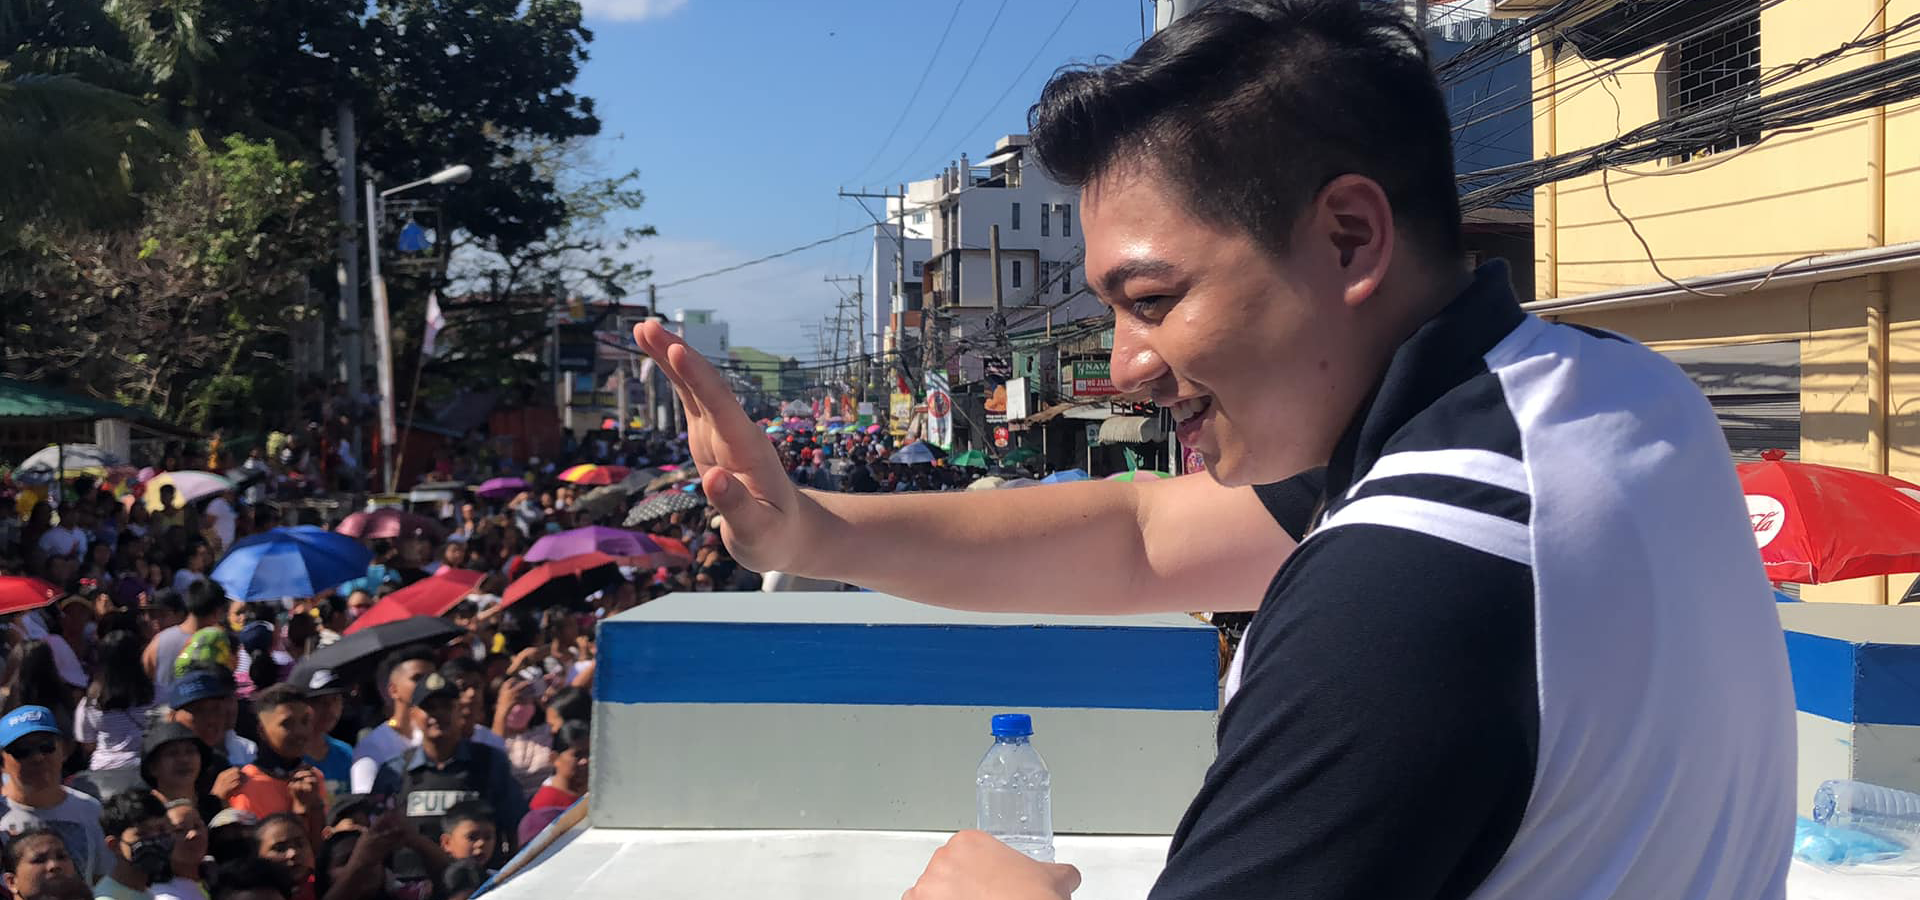
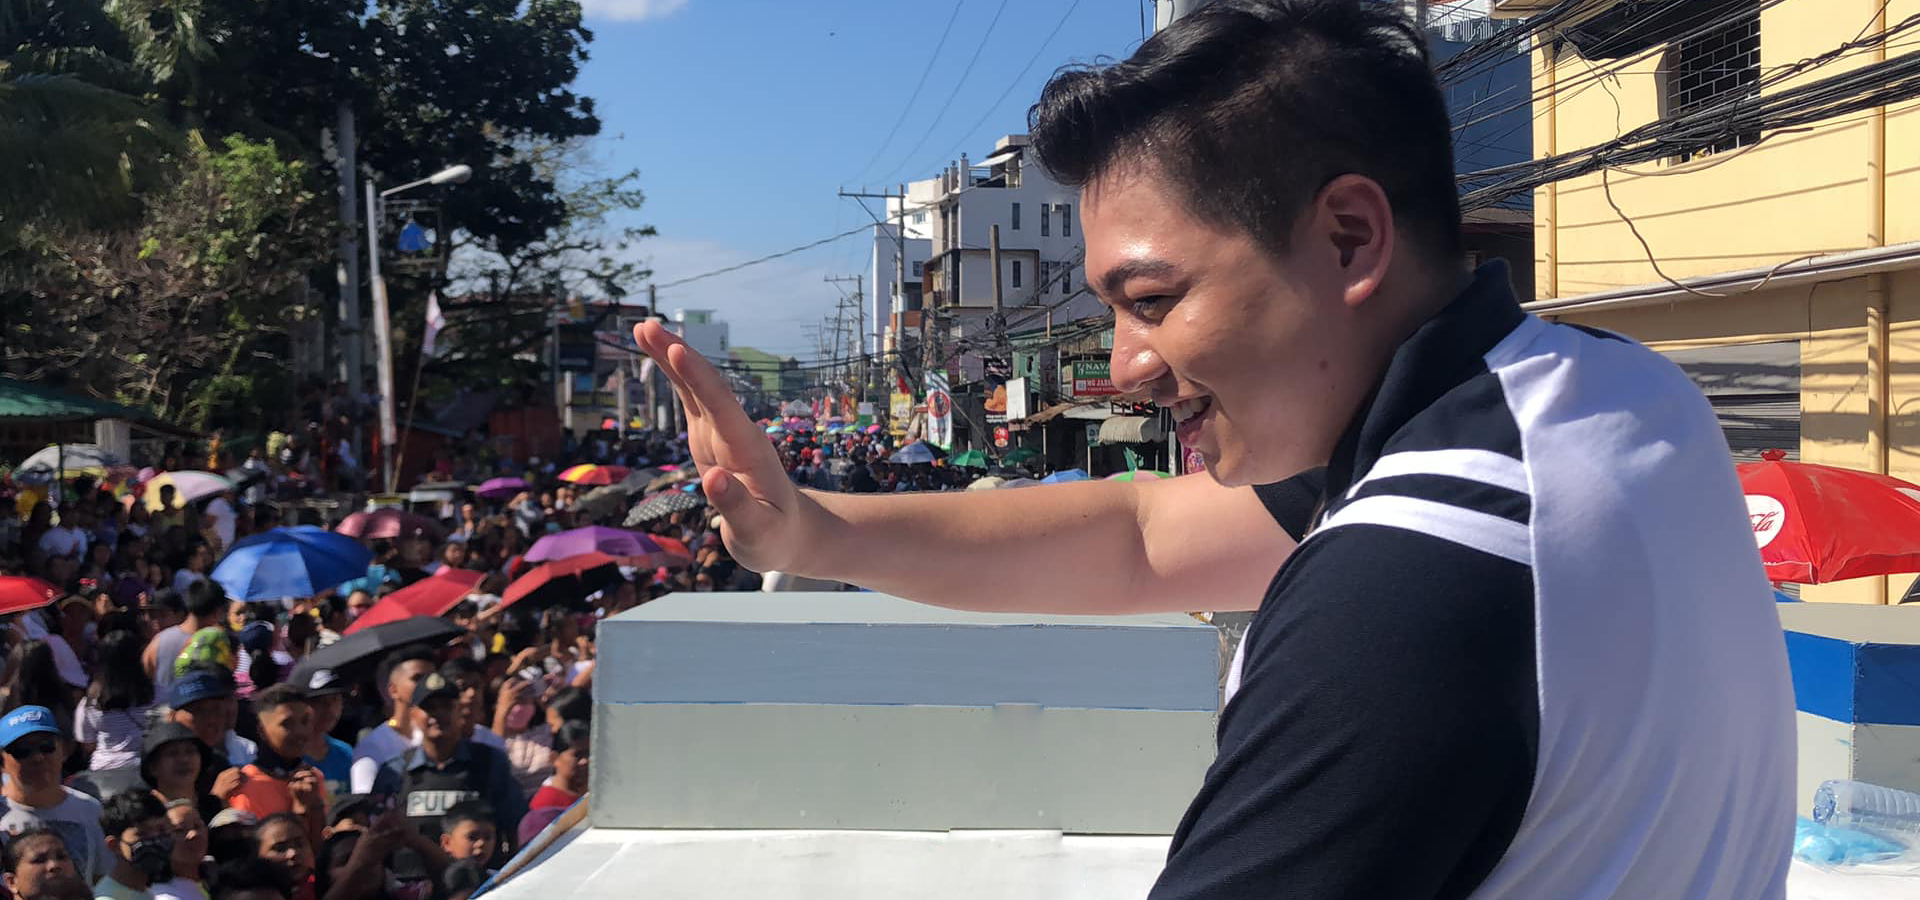
hero

Changed region(s): [[0.2812, 0.6844, 0.6562, 1.0]]

diff --git a/assets/css/style.css b/assets/css/style.css
@@ -2820,24 +2820,45 @@ hr {
 }
 
 .slider-area2 {
-    background-image: url(../img/hero/hero2.png);
+    background-image: url(../img/hero/h1_hero.png);
     max-width: 100%;
     background-position: center;
     background-repeat: no-repeat;
-    background-size: cover
+    background-size: cover;
+    height: 80vh;
 }
 
 .slider-area {
     margin-top: -1px;
-    background-image: url(../img/hero/h2_hero.png);
+    background-image:linear-gradient(180deg, rgba(0,0,0,0.17690826330532217) 0%, rgba(0,0,0,0.2189250700280112) 100%), url(../img/hero/h2_hero.png);
     background-repeat: no-repeat;
     background-position: center center;
-    background-size: cover
+    background-size: cover;
+    height: 80vh;
 }
-
+.color-blue{
+    color: #fff;
+}
+.color-orange{
+    color:#FEBD17;
+}
+.color-red{
+    color:#ff8b1e;
+}
 .slider-area .hero__caption {
     overflow: hidden
 }
+@import url('https://fonts.googleapis.com/css2?family=Poppins&display=swap');
+.hero-title{
+    font-size: 6rem;
+    font-weight: 600;
+    font-family: 'poppins';
+    color: #fff;
+    letter-spacing: 5px;
+    border: 2px solid #fff;
+    
+}
+
 
 .slider-area .hero__caption span {
     font-size: 18px;
@@ -2852,14 +2873,7 @@ hr {
     letter-spacing: 0.05em
 }
 
-@media (max-width: 375px) {
-    .slider-area2 {
-        background-size:contain;
-       
-       
-        
-    }
-}
+
 
 
 @media (max-width: 340px) {
@@ -2899,7 +2913,6 @@ hr {
     font-weight: 900;
     margin-bottom: 14px;
     color: #ffffff;
-    filter: drop-shadow(0px 0px 15px black);
     line-height: 1.2;
     margin-bottom: 30px;
     text-transform: uppercase

diff --git a/assets/css/donations.css b/assets/css/donations.css
@@ -1363,8 +1363,10 @@ display: flex;
 
 .max-wid img{
   max-width: 100%;
-  height:90vh;
+  height:80vh;
  object-fit: cover;
+ width: 100%;
+ 
  
 }
 

diff --git a/index.php b/index.php
@@ -20,24 +20,15 @@
                         <div class="col-xl-7 col-lg-9 col-md-8 col-sm-9">
                             <div class="hero__caption">
                                 <!--<span>Committed to success</span>-->
-<<<<<<< HEAD
                                 <h1 class="cd-headline letters scale " data-animation="fadeInLeft" data-delay="0.3s">Committed to Success Youth 
-=======
-                                <h1 class="cd-headline letters scale">Committed to Success Youth
->>>>>>> c7aa06f3938037b216637465bd4bf114198f8233
-                                    <strong class="cd-words-wrapper">
-                                        <b class="">Representation</b>
-                                        <b>Empowerment</b>
-                                        <b>Participation</b>
+                                    <strong class="cd-words-wrapper ">
+                                        <b class="is-visible color-blue">Representation</b>
+                                        <b  class="color-orange">Empowerment</b>
+                                        <b class="color-red">Participation</b>
                                     </strong>
                                 </h1>
                                 <!--<p data-animation="fadeInLeft" data-delay="0.1s">Paragraph.</p>-->
-<<<<<<< HEAD
                                 <a href="getappointment.php" class="btn hero-btn" data-animation="fadeInLeft" data-delay="0.3s">Get Appointment <i class="ti-arrow-right"></i></a>
-=======
-                                <a href="getappointment.php" class="btn hero-btn" data-animation="fadeInLeft"
-                                    data-delay="0.5s">Get Appointment <i class="ti-arrow-right"></i></a>
->>>>>>> c7aa06f3938037b216637465bd4bf114198f8233
                             </div>
                         </div>
                     </div>
@@ -51,16 +42,15 @@
                         <div class="col-xl-7 col-lg-9 col-md-8 col-sm-9">
                             <div class="hero__caption">
                                 <!--<span>Committed to success</span>-->
-                                <h1 class="cd-headline letters scale" data-animation="fadeInLeft" data-delay="0.3s">Committed to success Youth
+                                <h1 class="cd-headline letters scale " data-animation="fadeInLeft" data-delay="0.3s">Committed to success Youth
                                     <strong class="cd-words-wrapper">
-                                        <b class="">Representation</b>
-                                        <b>Empowerment</b>
-                                        <b>Participation</b>
+                                        <b class="is-visible color-blue">Representation</b>
+                                        <b class="color-orange">Empowerment</b> 
+                                        <b class="color-red">Participation</b>
                                     </strong>
                                 </h1>
                                 <!--<p data-animation="fadeInLeft" data-delay="0.1s">Paragraph.</p>-->
-<<<<<<< HEAD
-                                <a href="getappointment.php" class="btn hero-btn" data-animation="fadeInLeft" data-delay="0.5s">Get Appointment <i class="ti-arrow-right"></i></a>
+                                <a href="getappointment.php" class="btn hero-btn" data-animation="fadeInLeft" data-delay="0.3s">Get Appointment <i class="ti-arrow-right"></i></a>
                             </div>
                         </div>
                     </div>
@@ -70,17 +60,16 @@
     </div>
     </div>
     <div class="carousel-item max-wid">
-      <img src="assets/img/COVER/bulacan.jpg" class="w-100 max-wid img-fluid" alt="...">
-      <div class="carousel-caption d-none d-md-block text-left font-weight-bold">
-        <h5>Second slide label</h5>
-        <p>Lorem ipsum dolor sit amet, consectetur adipiscing elit.</p>
+      <img src="assets/img/gallery/gallery4.png" class="w-100 max-wid img-fluid max-wid" alt="...">
+      <div class="carousel-caption d-none d-md-block text-left font-weight-bold mb-50 ">
+      <div class="drk"></div>
+          <h1 class="hero-title"></h1>
       </div>
     </div>
     <div class="carousel-item max-wid" >
-      <img src="assets/img/COVER/ridgemont.jpg" class=" w-100 max-wid img-fluid" alt="...">
+      <img src="assets/img/COVER/sunrise.jpg" class=" w-100 max-wid img-fluid max-wid" alt="...">
       <div class="carousel-caption d-none d-md-block">
-        <h5>Third slide label</h5>
-        <p>Praesent commodo cursus magna, vel scelerisque nisl consectetur.</p>
+       
       </div>
     </div>
   </div>
@@ -266,9 +255,7 @@
                             <div class="date-info">
                                 <span>Award</span>
                                 <p>Apr 26, 2021</p>
-=======
-                                <a href="getappointment.php" class="btn hero-btn" data-animation="fadeInLeft"
-                                    data-delay="0.5s">Get Appointment <i class="ti-arrow-right"></i></a>
+                                
                             </div>
                         </div>s
                     </div>
@@ -319,7 +306,6 @@
                                         <?php echo $day; ?></h3>
                                     <h3><?php echo date("Y"); ?></h3>
                                 </a>
->>>>>>> c7aa06f3938037b216637465bd4bf114198f8233
                             </div>
 
                             <div class="blog_details">

diff --git a/includes/header.php b/includes/header.php
@@ -64,15 +64,8 @@
                             <div class="main-menu f-right d-none d-lg-block">
                                 <nav >
                                     <ul id="navigation" >
-<<<<<<< HEAD
                                         <li><a class="text-decoration-none" href="index.php">Home</a></li>
-                                        <li><a class="text-decoration-none" href="news.php">News & Update</a></li>
                                         <li><a class="text-decoration-none" href="#">About</a>
-=======
-                                        <li><a href="index.php">Home</a></li>
-                                        <!-- <li><a href="news.php">News & Update</a></li> -->
-                                        <li><a href="#">About</a>
->>>>>>> c7aa06f3938037b216637465bd4bf114198f8233
                                         <ul class="submenu">
                                         <li ><a class="text-decoration-none" href="roster.php"><i class="fas fa-chevron-right"></i> Sangguniang Kabataan Roster</a></li>
                                             <li><a class="text-decoration-none" href="officials.php"><i class="fas fa-chevron-right"></i> SK Elected Officials</a></li>
